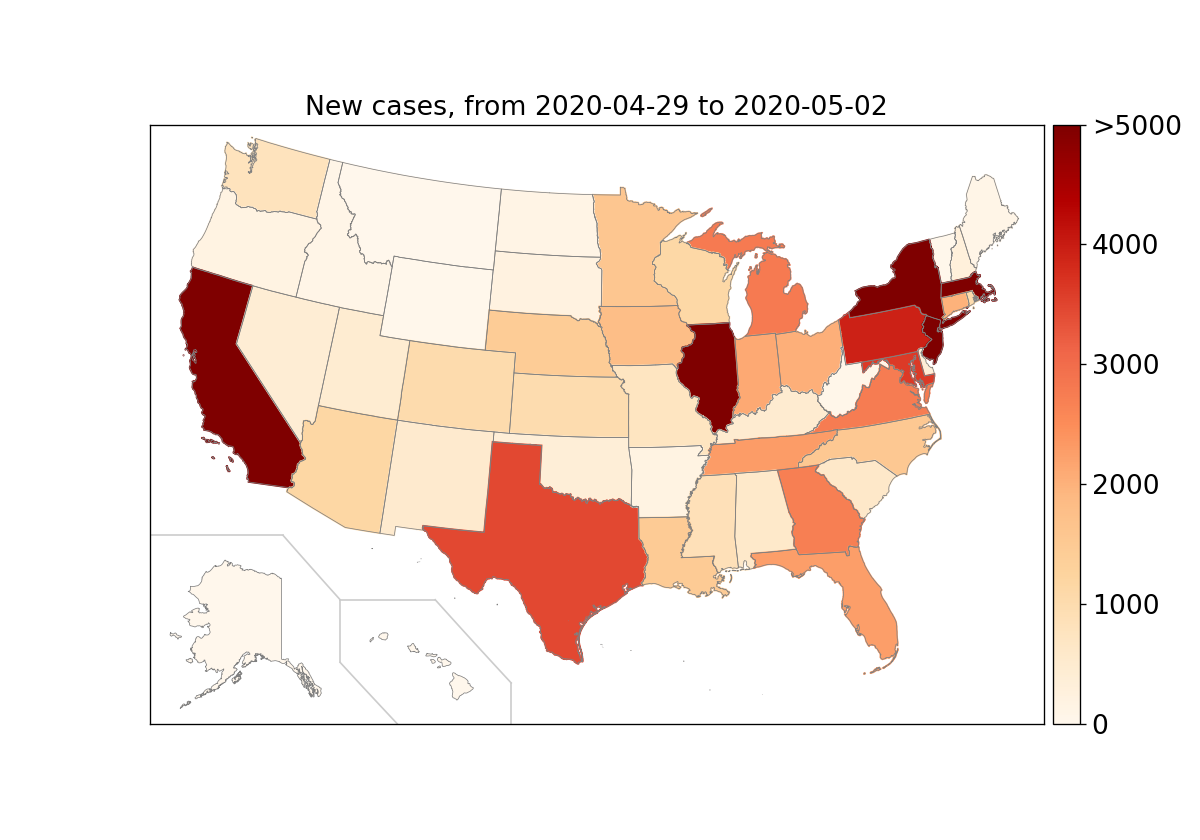
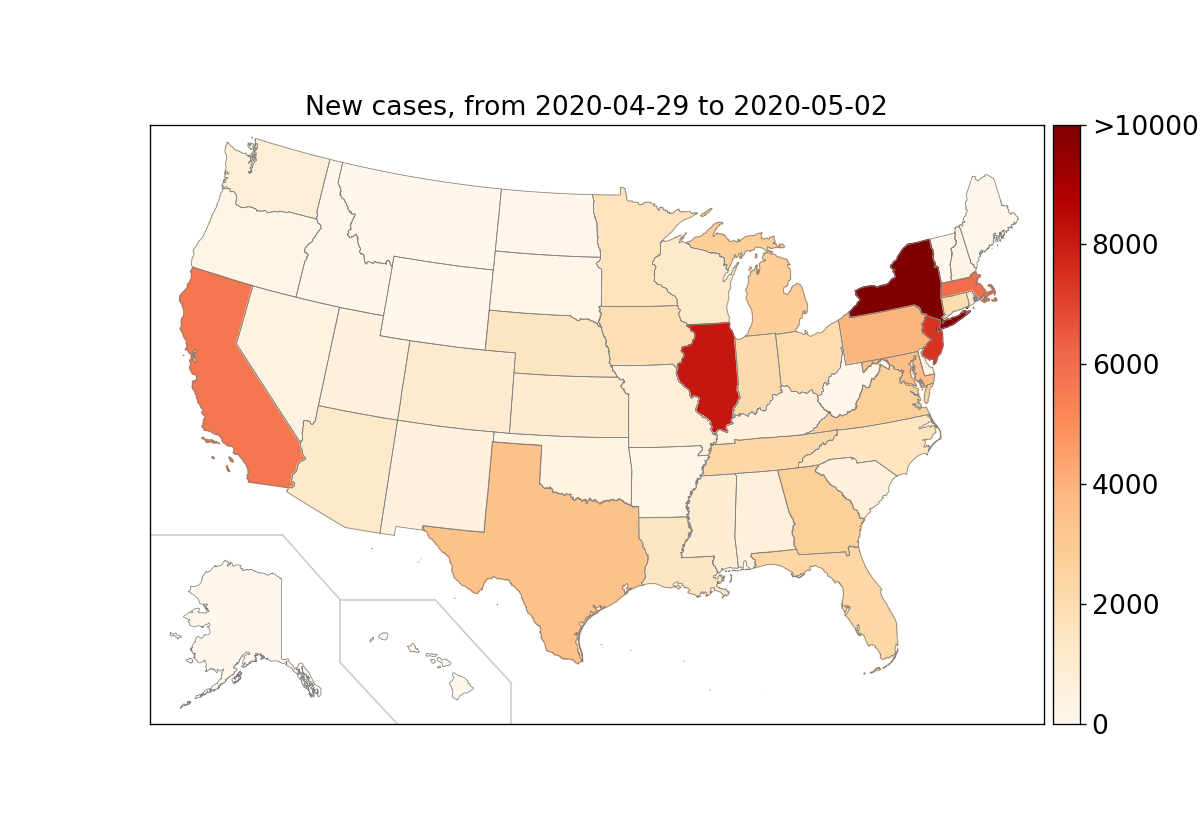
Adjust axis range & color limits; replot

diff --git a/scripts/Map_county_level.py b/scripts/Map_county_level.py
@@ -12,7 +12,7 @@ fig, _ = pu.choropleth_map_county(
     data_by_county['cases'],
     map_title=f'Total confirmed cases per county, as of {today}',
     vmin=0,
-    vmax=4000,
+    vmax=10000,
     cmap='GnBu',
     dpi=120,
 )
@@ -22,7 +22,7 @@ fig, _ = pu.choropleth_map_county(
     data_by_county['deaths'],
     map_title=f'Total deaths per county, as of {today}',
     vmin=0,
-    vmax=200,
+    vmax=1000,
     cmap='GnBu',
     dpi=120,
 )

diff --git a/scripts/Daily_positive_normalized_by_population_density.py b/scripts/Daily_positive_normalized_by_population_density.py
@@ -9,6 +9,7 @@ data_url = 'https://raw.githubusercontent.com/COVID19Tracking/covid-tracking-dat
 df = pd.read_csv(data_url)
 hlp.exclude_overseas_territory_records(df)
 trend_df = df.pivot(index='date', columns='state', values='positive')
+trend_df = trend_df.iloc[40:, :]  # do not plot February data as it is sparse
 today = hlp.get_today(trend_df)
 
 #%%---------------- Read population density data ------------------------------

diff --git a/scripts/Daily_positive_trend_by_state.py b/scripts/Daily_positive_trend_by_state.py
@@ -7,6 +7,7 @@ data_url = 'https://raw.githubusercontent.com/COVID19Tracking/covid-tracking-dat
 df = pd.read_csv(data_url)
 hlp.exclude_overseas_territory_records(df)
 trend_df = df.pivot(index='date', columns='state', values='positive')
+trend_df = trend_df.iloc[40:, :]  # do not plot February data as it is sparse
 today = hlp.get_today(trend_df)
 
 #%%---------------- Plot figures ----------------------------------------------

diff --git a/scripts/Daily_tested_trend_by_state.py b/scripts/Daily_tested_trend_by_state.py
@@ -7,6 +7,7 @@ data_url = 'https://raw.githubusercontent.com/COVID19Tracking/covid-tracking-dat
 df = pd.read_csv(data_url)
 hlp.exclude_overseas_territory_records(df)
 trend_df = df.pivot(index='date', columns='state', values='total')
+trend_df = trend_df.iloc[40:, :]  # do not plot February data as it is sparse
 today = hlp.get_today(trend_df)
 
 #%%---------------- Plot figures ----------------------------------------------

diff --git a/scripts/Daily_new_cases_vs_total_cases.py b/scripts/Daily_new_cases_vs_total_cases.py
@@ -10,6 +10,7 @@ data_url = 'https://raw.githubusercontent.com/COVID19Tracking/covid-tracking-dat
 df = pd.read_csv(data_url)
 hlp.exclude_overseas_territory_records(df)
 trend_df = df.pivot(index='date', columns='state', values='positive')
+trend_df = trend_df.iloc[40:, :]  # do not plot February data as it is sparse
 
 today = hlp.get_today(trend_df)
 n = 3  # time window (unit: days) to calculate new cases

diff --git a/scripts/Daily_tested_per_capita_by_state.py b/scripts/Daily_tested_per_capita_by_state.py
@@ -22,6 +22,7 @@ df['population'] = df['state'].apply(lookup_population)
 df['tests_per_capita'] = df['total'] / df['population'] * 1e6
 
 trend_df = df.pivot(index='date', columns='state', values='tests_per_capita')
+trend_df = trend_df.iloc[40:, :]  # do not plot February data as it is sparse
 today = hlp.get_today(trend_df)
 
 #%%---------------- Plot figures ----------------------------------------------

diff --git a/scripts/Daily_new_cases_by_state.py b/scripts/Daily_new_cases_by_state.py
@@ -10,6 +10,7 @@ hlp.exclude_overseas_territory_records(df)
 df = pd.read_csv(data_url)
 hlp.exclude_overseas_territory_records(df)
 trend_df = df.pivot(index='date', columns='state', values='positive').fillna(0)
+trend_df = trend_df.iloc[40:, :]  # do not plot February data as it is sparse
 today = hlp.get_today(trend_df)
 
 #%%-------------- Calculate daily new cases -----------------------------------

diff --git a/scripts/Daily_new_deaths_by_state.py b/scripts/Daily_new_deaths_by_state.py
@@ -10,6 +10,7 @@ hlp.exclude_overseas_territory_records(df)
 df = pd.read_csv(data_url)
 hlp.exclude_overseas_territory_records(df)
 trend_df = df.pivot(index='date', columns='state', values='death').fillna(0)
+trend_df = trend_df.iloc[40:, :]  # do not plot February data as it is sparse
 today = hlp.get_today(trend_df)
 
 #%%-------------- Calculate daily new cases -----------------------------------

diff --git a/scripts/Daily_positive_rate_trend_by_state.py b/scripts/Daily_positive_rate_trend_by_state.py
@@ -9,6 +9,7 @@ hlp.exclude_overseas_territory_records(df)
 
 df['positive_rate'] = df['positive'] / df['total'] * 100
 trend_df = df.pivot(index='date', columns='state', values='positive_rate')
+trend_df = trend_df.iloc[40:, :]  # do not plot February data as it is sparse
 today = hlp.get_today(trend_df)
 
 #%%---------------- Plot figures ----------------------------------------------

diff --git a/scripts/Map_positive_case_increase_rate.py b/scripts/Map_positive_case_increase_rate.py
@@ -18,7 +18,7 @@ fig, ax = pu.choropleth_map_state(
     three_day_increase,
     map_title=f'New cases, from {three_days_ago} to {today}',
     unit='',
-    vmax=5000,
+    vmax=10000,
     vmin=0,
     dpi=120,
     fontsize=16,

diff --git a/scripts/Map_current_positive.py b/scripts/Map_current_positive.py
@@ -20,7 +20,7 @@ fig, _ = pu.choropleth_map_state(
     positive,
     map_title=f'Positive cases by state ({today})',
     unit='',
-    vmax=20000,
+    vmax=50000,
     vmin=0,
     dpi=120,
     fontsize=16,
